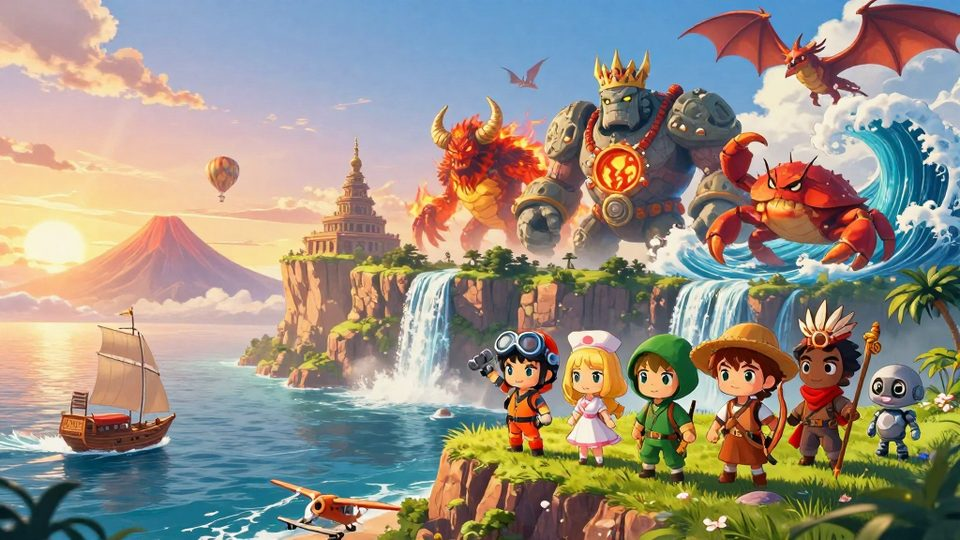
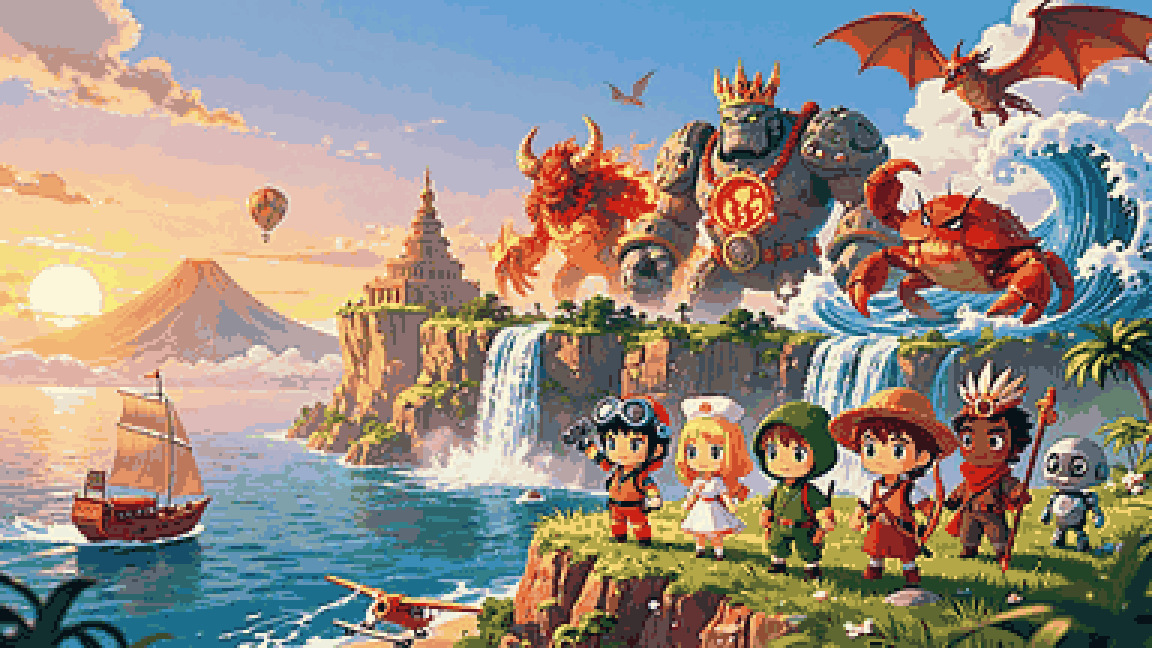
Pixel-art key art for home/loader; crisp Thai pixel font (Unifont) on loader headings

diff --git a/app/loading.css b/app/loading.css
@@ -1,3 +1,16 @@
+/* ฟอนต์พิกเซลไทย (GNU Unifont, ตัดเหลือไทย+อังกฤษ) — คมที่ขนาด 16/32/48px เท่านั้น */
+@font-face {
+  font-family: 'UnifontThai';
+  src: url('./fonts/unifont-thai.woff2') format('woff2');
+  font-display: swap;
+}
+.si-px {
+  font-family: 'UnifontThai', 'Mitr', monospace;
+  font-weight: 400;
+  -webkit-font-smoothing: none;
+  font-smooth: never;
+  text-rendering: optimizeSpeed;
+}
 /* หน้าโหลด Survivor Isles — ดู app/LoadingScreen.tsx · ภาพนิ่ง เคลื่อนไหวเบาๆ เท่านั้น (ไม่ซูม ไม่เด้ง) */
 .si-loader {
   position: fixed;
@@ -25,6 +38,7 @@
   height: 100%;
 }
 .si-art {
+  image-rendering: pixelated; /* ภาพพิกเซลอาร์ต: ขยายแบบจุดคม ไม่เบลอ */
   object-fit: cover;
   object-position: 60% 50%;
   opacity: 0;
@@ -119,18 +133,16 @@
 }
 .si-sub {
   margin: clamp(10px, 2.2vh, 22px) 0 0;
-  font-weight: 700;
-  font-size: clamp(18px, 2.4vw, 32px);
-  line-height: 1.35;
+  font-size: 32px;
+  line-height: 1.5;
   color: #fff6d8;
   letter-spacing: 0.01em;
   -webkit-text-stroke: 0;
-  text-shadow: 0 2px 0 #1a1c2c, 2px 0 0 #1a1c2c, -2px 0 0 #1a1c2c, 0 -2px 0 #1a1c2c, 0 4px 0 #5a1f2b, 0 0 14px rgba(0, 0, 0, 0.6);
+  text-shadow: 2px 0 0 #1a1c2c, -2px 0 0 #1a1c2c, 0 2px 0 #1a1c2c, 0 -2px 0 #1a1c2c, 2px 2px 0 #1a1c2c, -2px 2px 0 #1a1c2c, 2px -2px 0 #1a1c2c, -2px -2px 0 #1a1c2c, 0 4px 0 #5a1f2b;
 }
 .si-tag {
   margin: 4px 0 0;
-  font-weight: 500;
-  font-size: clamp(12px, 1.25vw, 17px);
+  font-size: 16px;
   color: #d6e4ee;
   text-shadow: 0 1px 0 #1a1c2c, 0 0 8px rgba(0, 0, 0, 0.8);
 }
@@ -150,8 +162,7 @@
   text-shadow: 0 1px 0 #0b0d1f, 0 0 6px rgba(0, 0, 0, 0.8);
 }
 .si-step {
-  font-size: clamp(13px, 1.2vw, 16px);
-  font-weight: 500;
+  font-size: 16px;
   color: #fff2b0;
 }
 .si-pct {
@@ -207,7 +218,7 @@
 @media (max-height: 480px) {
   .si-head { top: 14px; left: 20px; }
   .si-logo { font-size: clamp(22px, 7vh, 34px); }
-  .si-sub { font-size: 18px; margin-top: 8px; }
+  .si-sub { font-size: 32px; margin-top: 8px; }
   .si-tag { display: none; }
   .si-bottom { bottom: 10px; }
   .si-tips { margin-top: 6px; min-height: 1.6em; }

diff --git a/app/LoadingScreen.tsx b/app/LoadingScreen.tsx
@@ -105,13 +105,13 @@ export default function LoadingScreen() {
           <span className="w1" data-t="SURVIVOR">SURVIVOR</span>
           <span className="w2" data-t="ISLES">ISLES</span>
         </h1>
-        <p className="si-sub">เอาชีวิตรอดบนหมู่เกาะ</p>
-        <p className="si-tag">สร้างฐาน · ล่องเรือ · ล้มบอส · รอดให้ถึงรุ่งเช้า</p>
+        <p className="si-sub si-px">เอาชีวิตรอดบนหมู่เกาะ</p>
+        <p className="si-tag si-px">สร้างฐาน · ล่องเรือ · ล้มบอส · รอดให้ถึงรุ่งเช้า</p>
       </header>
 
       <div className="si-bottom">
         <div className="si-row">
-          <span className="si-step">{status(prog)}</span>
+          <span className="si-step si-px">{status(prog)}</span>
           <span className="si-pct">{pct}%</span>
         </div>
         <div className="si-bar" role="progressbar" aria-valuemin={0} aria-valuemax={100} aria-valuenow={pct}>
